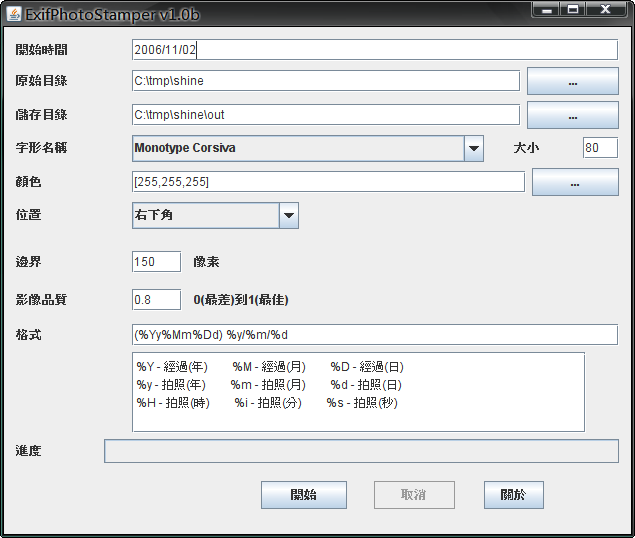
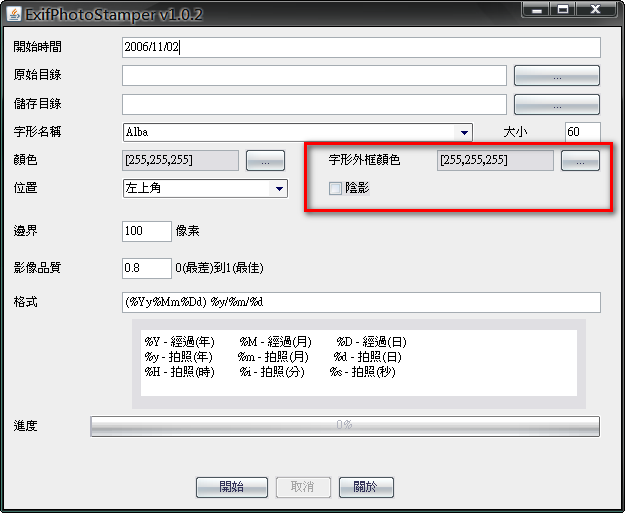
Add Support Font Border Color and Font Shadow.

Changed region(s): [[0.0, 0.0, 1.0, 0.9981], [0.0, 0.1871, 0.1216, 0.655], [0.0, 0.8109, 0.0608, 0.8733]]

diff --git a/src/exifphotostamper/MainFrame.java b/src/exifphotostamper/MainFrame.java
@@ -29,6 +29,7 @@ public class MainFrame extends javax.swing.JFrame {
     
     private ComboBoxModel allSystemFonts = new DefaultComboBoxModel(java.awt.GraphicsEnvironment.getLocalGraphicsEnvironment().getAvailableFontFamilyNames());
     private Color fontColor = Color.WHITE;
+    private Color fontBorderColor = Color.WHITE;
     private ExifPhotoStamper stamp ;    
     
     /** Creates new form MainFrame2 */
@@ -96,9 +97,13 @@ public class MainFrame extends javax.swing.JFrame {
         startBtn = new javax.swing.JButton();
         cancelBtn = new javax.swing.JButton();
         aboutBtn = new javax.swing.JButton();
+        fontBorderColorLabel = new javax.swing.JLabel();
+        fontBorderColorValue = new javax.swing.JTextField();
+        colorBorderBtn = new javax.swing.JButton();
+        shadowCheckBox = new javax.swing.JCheckBox();
 
         setDefaultCloseOperation(javax.swing.WindowConstants.EXIT_ON_CLOSE);
-        setTitle("ExifPhotoStamper v1.0.1");
+        setTitle("ExifPhotoStamper v1.0.2");
 
         java.util.ResourceBundle bundle = java.util.ResourceBundle.getBundle("exifphotostamper/messages"); // NOI18N
         startDateLabel.setText(bundle.getString("StartDate")); // NOI18N
@@ -138,6 +143,7 @@ public class MainFrame extends javax.swing.JFrame {
             }
         });
 
+        fontColorValue.setEditable(false);
         fontColorValue.setText("[255,255,255]");
 
         fontColorLabel.setText(bundle.getString("FontColor")); // NOI18N
@@ -191,6 +197,22 @@ public class MainFrame extends javax.swing.JFrame {
             }
         });
 
+        fontBorderColorLabel.setText(bundle.getString("FontBorderColor")); // NOI18N
+
+        fontBorderColorValue.setEditable(false);
+        fontBorderColorValue.setText("[255,255,255]");
+
+        colorBorderBtn.setText("...");
+        colorBorderBtn.addActionListener(new java.awt.event.ActionListener() {
+            public void actionPerformed(java.awt.event.ActionEvent evt) {
+                colorBorderBtnActionPerformed(evt);
+            }
+        });
+
+        shadowCheckBox.setText(bundle.getString("Shadow")); // NOI18N
+        shadowCheckBox.setBorder(javax.swing.BorderFactory.createEmptyBorder(0, 0, 0, 0));
+        shadowCheckBox.setMargin(new java.awt.Insets(0, 0, 0, 0));
+
         org.jdesktop.layout.GroupLayout layout = new org.jdesktop.layout.GroupLayout(getContentPane());
         getContentPane().setLayout(layout);
         layout.setHorizontalGroup(
@@ -225,11 +247,6 @@ public class MainFrame extends javax.swing.JFrame {
                                 .add(targetDir, org.jdesktop.layout.GroupLayout.DEFAULT_SIZE, 385, Short.MAX_VALUE)
                                 .addPreferredGap(org.jdesktop.layout.LayoutStyle.RELATED)
                                 .add(targetDirBtn, org.jdesktop.layout.GroupLayout.DEFAULT_SIZE, 88, Short.MAX_VALUE))
-                            .add(layout.createSequentialGroup()
-                                .add(fontColorValue, org.jdesktop.layout.GroupLayout.DEFAULT_SIZE, 390, Short.MAX_VALUE)
-                                .addPreferredGap(org.jdesktop.layout.LayoutStyle.RELATED)
-                                .add(colorBtn, 0, 83, Short.MAX_VALUE))
-                            .add(cornerCombo, org.jdesktop.layout.GroupLayout.PREFERRED_SIZE, 167, org.jdesktop.layout.GroupLayout.PREFERRED_SIZE)
                             .add(startDate, org.jdesktop.layout.GroupLayout.DEFAULT_SIZE, 479, Short.MAX_VALUE)
                             .add(format, org.jdesktop.layout.GroupLayout.DEFAULT_SIZE, 479, Short.MAX_VALUE)
                             .add(layout.createSequentialGroup()
@@ -238,8 +255,26 @@ public class MainFrame extends javax.swing.JFrame {
                                     .add(org.jdesktop.layout.GroupLayout.LEADING, quality, org.jdesktop.layout.GroupLayout.PREFERRED_SIZE, 50, org.jdesktop.layout.GroupLayout.PREFERRED_SIZE))
                                 .addPreferredGap(org.jdesktop.layout.LayoutStyle.RELATED)
                                 .add(layout.createParallelGroup(org.jdesktop.layout.GroupLayout.LEADING)
-                                    .add(pixels, org.jdesktop.layout.GroupLayout.PREFERRED_SIZE, 91, org.jdesktop.layout.GroupLayout.PREFERRED_SIZE)
-                                    .add(qualityTips, org.jdesktop.layout.GroupLayout.PREFERRED_SIZE, 240, org.jdesktop.layout.GroupLayout.PREFERRED_SIZE)))))
+                                    .add(qualityTips, org.jdesktop.layout.GroupLayout.PREFERRED_SIZE, 240, org.jdesktop.layout.GroupLayout.PREFERRED_SIZE)
+                                    .add(pixels, org.jdesktop.layout.GroupLayout.PREFERRED_SIZE, 91, org.jdesktop.layout.GroupLayout.PREFERRED_SIZE))
+                                .addPreferredGap(org.jdesktop.layout.LayoutStyle.RELATED, 185, Short.MAX_VALUE))
+                            .add(layout.createSequentialGroup()
+                                .add(layout.createParallelGroup(org.jdesktop.layout.GroupLayout.LEADING)
+                                    .add(layout.createSequentialGroup()
+                                        .add(fontColorValue, org.jdesktop.layout.GroupLayout.PREFERRED_SIZE, 117, org.jdesktop.layout.GroupLayout.PREFERRED_SIZE)
+                                        .addPreferredGap(org.jdesktop.layout.LayoutStyle.RELATED)
+                                        .add(colorBtn))
+                                    .add(cornerCombo, org.jdesktop.layout.GroupLayout.PREFERRED_SIZE, 167, org.jdesktop.layout.GroupLayout.PREFERRED_SIZE))
+                                .add(40, 40, 40)
+                                .add(layout.createParallelGroup(org.jdesktop.layout.GroupLayout.LEADING)
+                                    .add(layout.createSequentialGroup()
+                                        .add(fontBorderColorLabel, org.jdesktop.layout.GroupLayout.DEFAULT_SIZE, 104, Short.MAX_VALUE)
+                                        .addPreferredGap(org.jdesktop.layout.LayoutStyle.RELATED)
+                                        .add(fontBorderColorValue, org.jdesktop.layout.GroupLayout.PREFERRED_SIZE, 117, org.jdesktop.layout.GroupLayout.PREFERRED_SIZE)
+                                        .addPreferredGap(org.jdesktop.layout.LayoutStyle.RELATED)
+                                        .add(colorBorderBtn)
+                                        .addPreferredGap(org.jdesktop.layout.LayoutStyle.RELATED, org.jdesktop.layout.GroupLayout.DEFAULT_SIZE, Short.MAX_VALUE))
+                                    .add(shadowCheckBox)))))
                     .add(layout.createSequentialGroup()
                         .add(118, 118, 118)
                         .add(jScrollPane1, org.jdesktop.layout.GroupLayout.PREFERRED_SIZE, 454, org.jdesktop.layout.GroupLayout.PREFERRED_SIZE))
@@ -281,14 +316,18 @@ public class MainFrame extends javax.swing.JFrame {
                     .add(fontSize, org.jdesktop.layout.GroupLayout.PREFERRED_SIZE, org.jdesktop.layout.GroupLayout.DEFAULT_SIZE, org.jdesktop.layout.GroupLayout.PREFERRED_SIZE)
                     .add(fontNameCombo, org.jdesktop.layout.GroupLayout.PREFERRED_SIZE, org.jdesktop.layout.GroupLayout.DEFAULT_SIZE, org.jdesktop.layout.GroupLayout.PREFERRED_SIZE))
                 .addPreferredGap(org.jdesktop.layout.LayoutStyle.RELATED)
-                .add(layout.createParallelGroup(org.jdesktop.layout.GroupLayout.LEADING)
-                    .add(org.jdesktop.layout.GroupLayout.CENTER, fontColorLabel)
-                    .add(org.jdesktop.layout.GroupLayout.CENTER, fontColorValue, org.jdesktop.layout.GroupLayout.PREFERRED_SIZE, org.jdesktop.layout.GroupLayout.DEFAULT_SIZE, org.jdesktop.layout.GroupLayout.PREFERRED_SIZE)
-                    .add(org.jdesktop.layout.GroupLayout.CENTER, colorBtn))
+                .add(layout.createParallelGroup(org.jdesktop.layout.GroupLayout.CENTER)
+                    .add(fontColorLabel)
+                    .add(colorBtn)
+                    .add(fontColorValue, org.jdesktop.layout.GroupLayout.PREFERRED_SIZE, org.jdesktop.layout.GroupLayout.DEFAULT_SIZE, org.jdesktop.layout.GroupLayout.PREFERRED_SIZE)
+                    .add(fontBorderColorLabel)
+                    .add(colorBorderBtn)
+                    .add(fontBorderColorValue, org.jdesktop.layout.GroupLayout.PREFERRED_SIZE, org.jdesktop.layout.GroupLayout.DEFAULT_SIZE, org.jdesktop.layout.GroupLayout.PREFERRED_SIZE))
                 .addPreferredGap(org.jdesktop.layout.LayoutStyle.RELATED)
                 .add(layout.createParallelGroup(org.jdesktop.layout.GroupLayout.LEADING)
                     .add(org.jdesktop.layout.GroupLayout.CENTER, cornerLabel)
-                    .add(org.jdesktop.layout.GroupLayout.CENTER, cornerCombo, org.jdesktop.layout.GroupLayout.PREFERRED_SIZE, org.jdesktop.layout.GroupLayout.DEFAULT_SIZE, org.jdesktop.layout.GroupLayout.PREFERRED_SIZE))
+                    .add(org.jdesktop.layout.GroupLayout.CENTER, cornerCombo, org.jdesktop.layout.GroupLayout.PREFERRED_SIZE, org.jdesktop.layout.GroupLayout.DEFAULT_SIZE, org.jdesktop.layout.GroupLayout.PREFERRED_SIZE)
+                    .add(org.jdesktop.layout.GroupLayout.CENTER, shadowCheckBox))
                 .add(22, 22, 22)
                 .add(layout.createParallelGroup(org.jdesktop.layout.GroupLayout.CENTER)
                     .add(marginLabel)
@@ -320,8 +359,15 @@ public class MainFrame extends javax.swing.JFrame {
         pack();
     }// </editor-fold>//GEN-END:initComponents
 
+    private void colorBorderBtnActionPerformed(java.awt.event.ActionEvent evt) {//GEN-FIRST:event_colorBorderBtnActionPerformed
+        javax.swing.JColorChooser dialog = new JColorChooser();
+        fontBorderColor = dialog.showDialog(colorBorderBtn,"", fontBorderColor);
+        if (fontBorderColor != null) fontBorderColorValue.setText("[" + fontBorderColor.getRed() + "," + fontBorderColor.getGreen()+","+ fontBorderColor.getBlue()+"]");
+
+}//GEN-LAST:event_colorBorderBtnActionPerformed
+
 private void aboutBtnActionPerformed(java.awt.event.ActionEvent evt) {//GEN-FIRST:event_aboutBtnActionPerformed
-    StringBuffer sb = new StringBuffer("ExifPhotoStamper v1.0b \n\n");
+    StringBuffer sb = new StringBuffer("ExifPhotoStamper v1.0.2 \n\n");
     sb.append("Copyright (c) 2007 Rack Lin (racklin.blogspot.com) \n");
     sb.append("Email: racklin@gmail.com \n");
     sb.append("My Chinese Blog:  http://racklin.blogspot.com/");
@@ -363,12 +409,14 @@ private void startBtnActionPerformed(java.awt.event.ActionEvent evt) {//GEN-FIRS
     stamp.setTargetDir(targetDir.getText());
     stamp.setStartDate(startDate.getText());
     stamp.setFontColor(fontColor);
+    stamp.setFontBorderColor(fontBorderColor);
     stamp.setFontName((String)fontNameCombo.getSelectedItem());
     stamp.setFontSize(Integer.parseInt(fontSize.getText()));
     stamp.setFormat(format.getText());
     stamp.setMargin(Integer.parseInt(margin.getText()));
     stamp.setQuality(Float.parseFloat(quality.getText()));
     stamp.setCorner(cornerCombo.getSelectedIndex()+1);
+    stamp.setShadow(shadowCheckBox.isSelected());
     storeProperties();
     (new Thread(stamp)).start();
 }//GEN-LAST:event_startBtnActionPerformed
@@ -392,14 +440,18 @@ private void loadProperties() {
                 quality.setText((String) prop.get("quality"));
                 fontColor = new Color(Integer.parseInt((String)prop.get("fontColor")));
                 fontColorValue.setText("[" + fontColor.getRed() + "," + fontColor.getGreen()+","+ fontColor.getBlue()+"]");
+                fontBorderColor = new Color(Integer.parseInt((String)prop.get("fontBorderColor")));
+                fontBorderColorValue.setText("[" + fontBorderColor.getRed() + "," + fontBorderColor.getGreen()+","+ fontBorderColor.getBlue()+"]");
                 
                 int fontNameIdx = ((DefaultComboBoxModel)fontNameCombo.getModel()).getIndexOf((String) prop.get("fontName") );
                 fontNameCombo.setSelectedIndex(fontNameIdx);
 
                 cornerCombo.setSelectedIndex(Integer.parseInt((String) prop.get("corner")));
                 
+                shadowCheckBox.setSelected(Boolean.parseBoolean((String) prop.get("shadow")));
+                
             } catch (Exception ex) {
-                ex.printStackTrace();
+                // ex.printStackTrace();
                 Logger.getLogger("global").log(Level.SEVERE, null, ex);
             }
         }    
@@ -417,10 +469,12 @@ private void storeProperties() {
                 prop.put("fontName", fontNameCombo.getSelectedItem());
                 prop.put("fontSize", fontSize.getText());
                 prop.put("fontColor", (Integer.valueOf(fontColor.getRGB())).toString());
+                prop.put("fontBorderColor", (Integer.valueOf(fontBorderColor.getRGB())).toString());
                 prop.put("margin", margin.getText());
                 prop.put("corner", Integer.toString(cornerCombo.getSelectedIndex()));
                 prop.put("format", format.getText());
                 prop.put("quality", quality.getText());
+                prop.put("shadow", Boolean.toString(shadowCheckBox.isSelected()));
                 prop.store(os, "ExifPhotoStamper v1.0b");
                 os.close();
             } catch (Exception ex) {
@@ -486,9 +540,12 @@ private void sourceDirBtnActionPerformed(java.awt.event.ActionEvent evt) {//GEN-
     // Variables declaration - do not modify//GEN-BEGIN:variables
     private javax.swing.JButton aboutBtn;
     private javax.swing.JButton cancelBtn;
+    private javax.swing.JButton colorBorderBtn;
     private javax.swing.JButton colorBtn;
     private javax.swing.JComboBox cornerCombo;
     private javax.swing.JLabel cornerLabel;
+    private javax.swing.JLabel fontBorderColorLabel;
+    private javax.swing.JTextField fontBorderColorValue;
     private javax.swing.JLabel fontColorLabel;
     private javax.swing.JTextField fontColorValue;
     private javax.swing.JComboBox fontNameCombo;
@@ -507,6 +564,7 @@ private void sourceDirBtnActionPerformed(java.awt.event.ActionEvent evt) {//GEN-
     private javax.swing.JTextField quality;
     private javax.swing.JLabel qualityLabel;
     private javax.swing.JLabel qualityTips;
+    private javax.swing.JCheckBox shadowCheckBox;
     private javax.swing.JTextField sourceDir;
     private javax.swing.JButton sourceDirBtn;
     private javax.swing.JLabel sourceDirLabel;

diff --git a/src/exifphotostamper/ExifPhotoStamper.java b/src/exifphotostamper/ExifPhotoStamper.java
@@ -11,6 +11,7 @@ import com.drew.imaging.jpeg.JpegMetadataReader;
 import com.drew.metadata.Directory;
 import com.drew.metadata.Metadata;
 import com.drew.metadata.exif.ExifDirectory;
+import java.awt.AlphaComposite;
 import java.awt.BasicStroke;
 import java.awt.Color;
 import java.awt.Font;
@@ -47,12 +48,30 @@ public class ExifPhotoStamper implements Runnable {
     private String targetDir = "c:\\tmp\\shine\\out";
     private String startDate = "2006/11/02";
     private Color fontColor = Color.WHITE;
+    private Color fontBorderColor = Color.WHITE;
     private String fontName = "dialog";
     private int fontSize = 60;
     private String format = "(%Yy%Mm%Dd) %y-%m-%d";
     private float quality = 0.85F;
     private int corner = 3;
     private int margin = 100;
+    private boolean shadow = false;
+
+    public boolean isShadow() {
+        return shadow;
+    }
+
+    public void setShadow(boolean shadow) {
+        this.shadow = shadow;
+    }
+
+    public Color getFontBorderColor() {
+        return fontBorderColor;
+    }
+
+    public void setFontBorderColor(Color fontBorderColor) {
+        this.fontBorderColor = fontBorderColor;
+    }
 
     public int getMargin() {
         return margin;
@@ -180,7 +199,7 @@ public class ExifPhotoStamper implements Runnable {
         });
         
         
-        ((MainFrame) ui).setFilesCount(imgFiles.length);
+        if(ui != null) ((MainFrame) ui).setFilesCount(imgFiles.length);
         
         for (int i=0; i < imgFiles.length; i++) {
             if (stop)  break;
@@ -210,9 +229,8 @@ public class ExifPhotoStamper implements Runnable {
                 IIOImage iioi = reader.readAll(0, reader.getDefaultReadParam());
                 BufferedImage imgSrc =(BufferedImage) iioi.getRenderedImage();
                 Graphics2D g = (Graphics2D) imgSrc.getGraphics();
-                g.setColor(fontColor);
                 g.setFont(font);
-                g.setRenderingHint(RenderingHints.KEY_TEXT_ANTIALIASING, RenderingHints.VALUE_TEXT_ANTIALIAS_ON);
+                g.setRenderingHint(RenderingHints.KEY_ANTIALIASING, RenderingHints.VALUE_ANTIALIAS_ON);
                 FontRenderContext frc = g.getFontRenderContext();
                 Rectangle2D rectString = font.getStringBounds(formatedString, frc);
                 double height = rectString.getHeight();
@@ -240,7 +258,30 @@ public class ExifPhotoStamper implements Runnable {
                     break;
                 }
                 
-                g.drawString(formatedString, left, top);
+                AlphaComposite a1 = AlphaComposite.getInstance(AlphaComposite.SRC_OVER, 0.6f);
+                AlphaComposite a2 = AlphaComposite.getInstance(AlphaComposite.SRC_OVER, 1.0f);
+                Shape fontShape = font.createGlyphVector(frc, formatedString).getOutline();
+                
+                if (isShadow()) {
+                    g.translate(left+3, top+3);
+                    g.setComposite(a1);
+                    g.setColor(Color.BLACK);
+                    g.fill(fontShape);
+                    left = -3;
+                    top = -3;
+                    g.setComposite(a2);
+                }
+                
+                g.translate(left, top);
+                g.setColor(fontColor);
+                g.fill(fontShape);
+                
+                if (!fontColor.equals(fontBorderColor)) {
+                    Stroke stroke = new BasicStroke(2);                    
+                    g.setStroke(stroke);
+                    g.setColor(fontBorderColor);
+                    g.draw(fontShape);
+                }
                 File outFile = new File(targetDir, imgFiles[i].getName());
                 ImageOutputStream ios = ImageIO.createImageOutputStream(outFile);
                 writer.setOutput(ios);
@@ -251,13 +292,13 @@ public class ExifPhotoStamper implements Runnable {
                 reader.dispose();
                 writer.dispose();
                 
-                ((MainFrame) ui).finishFileIndex(i);
+                if(ui != null) ((MainFrame) ui).finishFileIndex(i);
             } catch (Exception ex) {
                 Logger.getLogger("global").log(Level.SEVERE, null, ex);
             }
         }
         
-        ((MainFrame) ui).finishAllFiles();
+        if(ui != null) ((MainFrame) ui).finishAllFiles();
     }
     
     public String getFormatedDateString(Date startDate, Date endDate, String format) {
